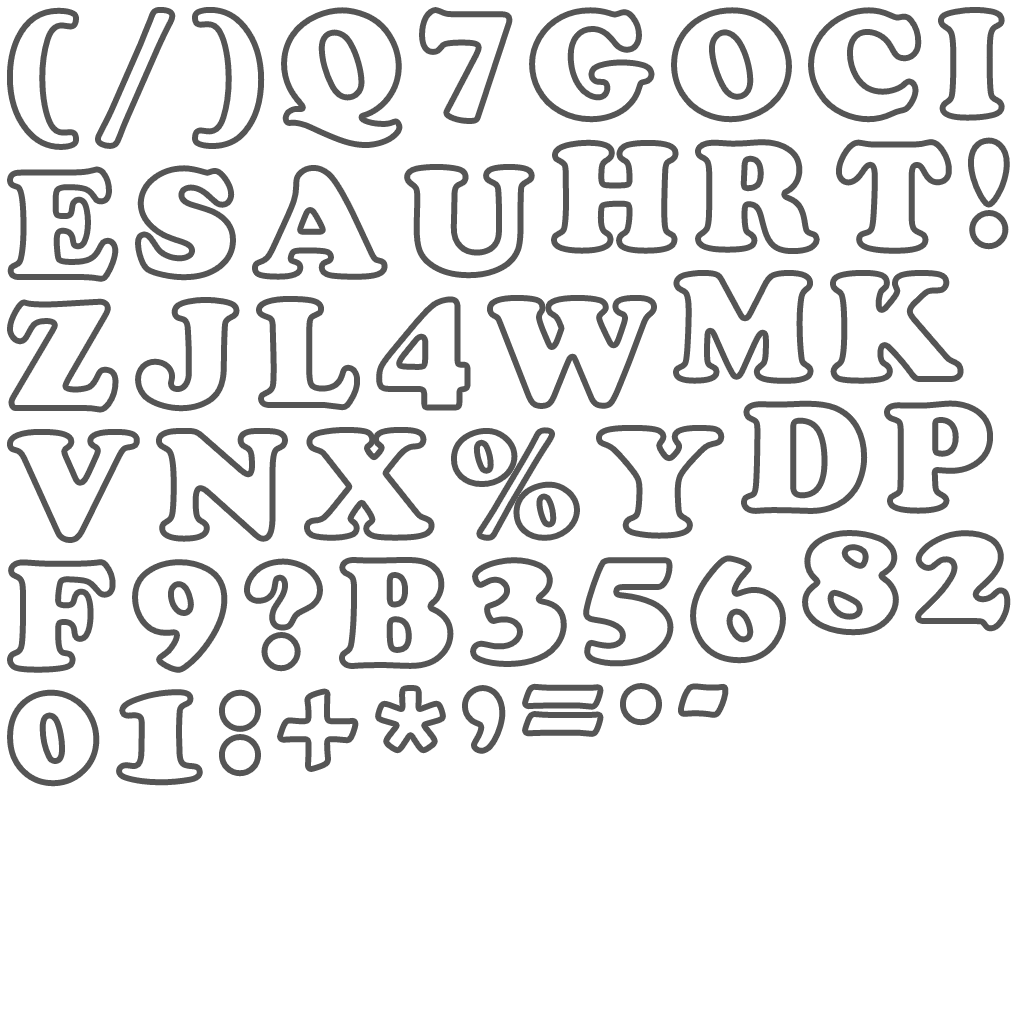
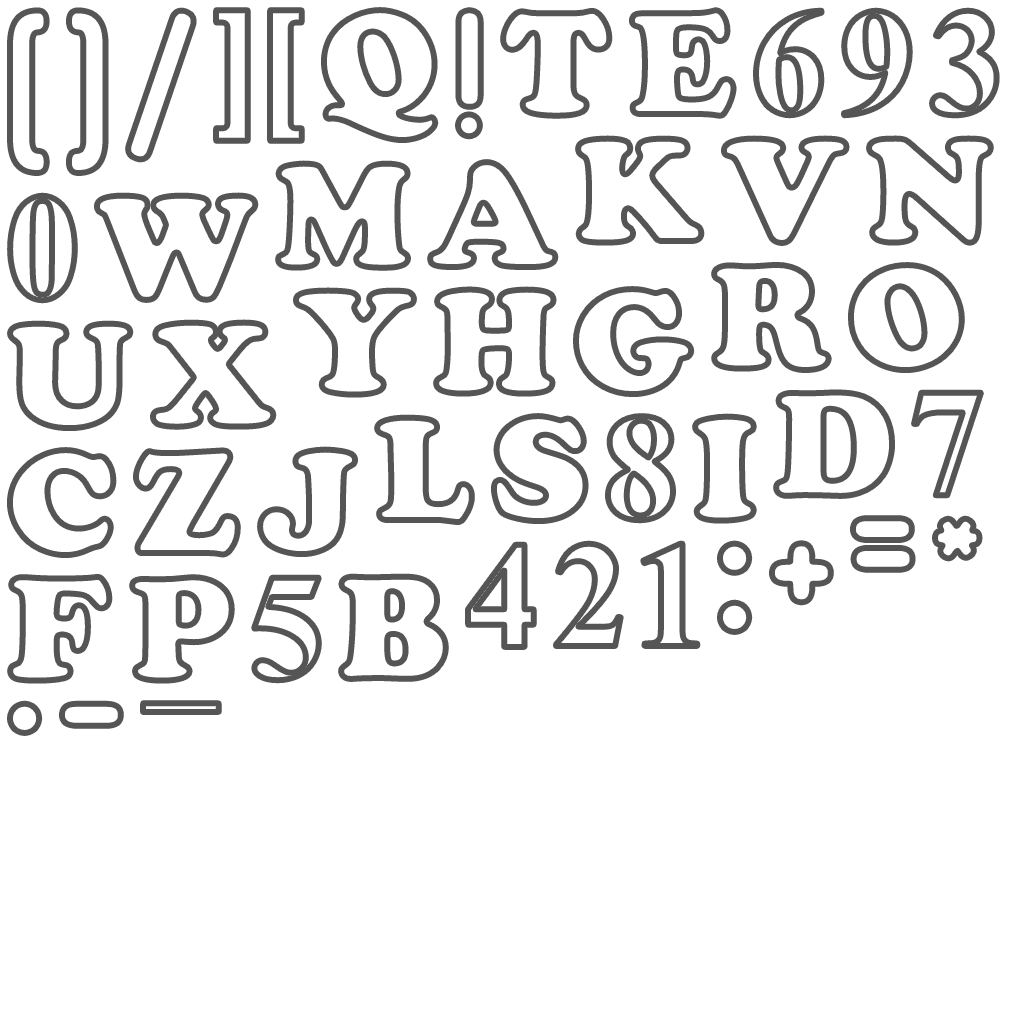
changed the font to a similar one that can export white space.

Changed region(s): [[0.0, 0.0, 1.0, 0.7812]]

diff --git a/src/game/LettersGame.ts b/src/game/LettersGame.ts
@@ -4,12 +4,15 @@ import Letter, { LetterTints, LetterTypes } from "./Letter";
 import LetterPool from "./LetterPool";
 const Keyboard = require("pixi.js-keyboard");
 import { gsap } from "gsap";
+import StartMenu, { START_MENU_EVENTS } from "./screen/StartMenu";
+import PointsMenu, { POINTS_MENU_EVENTS } from "./screen/PointsMenu";
 
 export default class LettersGame {
     private _app: Application;
     private _gameWorld: Container;
-    private _startCont: Container;
-    private _pointsCont: Container;
+
+    private _startMenu: StartMenu;
+    private _pointsMenu: PointsMenu;
 
     private _bgGraphics!: Graphics;
     private _pool: LetterPool;
@@ -41,7 +44,7 @@ export default class LettersGame {
     private _currentWaveNum: number = 0;
 
     /**
-     * Tracks letters that need to be removed from the game.
+     * Tracks letters that need to be removed from the game. Internal use.
      */
     private _toBeRemoved: Letter[] = [];
 
@@ -50,12 +53,9 @@ export default class LettersGame {
     constructor(app: Application) {
         this._app = app;
         this._gameWorld = new Container();
-        this._startCont = new Container();
-        this._pointsCont = new Container();
+        this.initStartMenu();
 
         this._app.stage.addChild(this._gameWorld);
-        this._app.stage.addChild(this._startCont);
-        this._app.stage.addChild(this._pointsCont);
 
         // Game world background.
         this._bgGraphics = new Graphics();
@@ -74,7 +74,8 @@ export default class LettersGame {
     }
 
     dev() {
-        this.startGame();
+        // this.startGame();
+        this.showStartMenu();
     }
 
     startGame() {
@@ -83,8 +84,13 @@ export default class LettersGame {
 
         // Start the letter wave spawner.
         this.spawnLetterWave();
-
         this._gameIsRunning = true;
+
+        this._app.stage.addChild(this._gameWorld);
+        this._gameWorld.visible = true;
+
+        this._app.stage.removeChild(this._startMenu);
+        this._startMenu.visible = false;
     }
 
     stopGame() {
@@ -132,6 +138,7 @@ export default class LettersGame {
         }
         // Check if we need to spawn more letters.
         if (this._currentWaveNum < this._numWaves && this._gameIsRunning) {
+            this._currentWaveNum++;
             gsap.delayedCall(this._spawnEvery, () => {
                 this.spawnLetterWave();
             });
@@ -154,6 +161,8 @@ export default class LettersGame {
         if (new_game_width < new_width) {
             this._gameWorld.x = (new_width - new_game_width) * 0.5;
         }
+
+        this._startMenu.resize(new_width, new_height);
     }
 
     update(delta: number) {
@@ -248,7 +257,20 @@ export default class LettersGame {
 
     //// MENUS.
 
-    showStartMenu() {}
+    initStartMenu() {
+        this._startMenu = new StartMenu();
+        this._startMenu.startBtn.on("pointerdown", () => {
+            this.startGame();
+            this._startMenu.visible = false;
+        });
+    }
+
+    showStartMenu() {
+        this._gameWorld.visible = false;
+        this._startMenu.visible = true;
+        this._app.stage.addChild(this._startMenu);
+        this._app.stage.removeChild(this._gameWorld);
+    }
 
     showPointsMenu() {}
 

diff --git a/src/game/screen/PointsMenu.ts b/src/game/screen/PointsMenu.ts
@@ -1,0 +1,41 @@
+import { BitmapText, Container } from "pixi.js";
+
+export default class PointsMenu extends Container {
+    bt: BitmapText;
+    startBt: BitmapText;
+
+    private _pointsTemplate: string;
+
+    constructor() {
+        super();
+
+        this._pointsTemplate =
+            "BLUE LETTERS: [ph_num_points]\n" +
+            "GOLD LETTERS: [ph_num_gold_points]\n" +
+            "TOTAL SCORE: BLUE LETTERS + (GOLD LETTERS * 2)";
+        ("TOTAL SCORE: [ph_total_points]");
+
+        this.bt = new BitmapText("");
+
+        this.startBt = new BitmapText("( CLICK TO PLAY AGAIN )", {
+            fontName: "ETH_B_gofa",
+            fontSize: 180,
+            align: "center",
+        });
+        this.startBt.interactive = true;
+        this.startBt.buttonMode = true;
+
+        this.startBt.on("pointerdown", this._onStartClick);
+
+        this.addChild(this.bt);
+        this.addChild(this.startBt);
+    }
+
+    private _onStartClick() {
+        this.emit(POINTS_MENU_EVENTS.startPointerDown);
+    }
+}
+
+export const POINTS_MENU_EVENTS = {
+    startPointerDown: "pointsstartpointerdown",
+};

diff --git a/src/game/screen/StartMenu.ts b/src/game/screen/StartMenu.ts
@@ -1,0 +1,30 @@
+import { BitmapText, Container } from "pixi.js";
+import { LOGICAL_GAME_SPACE } from "../LettersGame";
+
+export default class StartMenu extends Container {
+    startBtn: BitmapText;
+
+    constructor() {
+        super();
+
+        this.startBtn = new BitmapText("( START )", { fontName: "ETH_B_gofa", fontSize: 120, align: "center" });
+        this.startBtn.interactive = true;
+        this.startBtn.buttonMode = true;
+
+        this.startBtn.x = LOGICAL_GAME_SPACE.halfWidth;
+        this.startBtn.y = LOGICAL_GAME_SPACE.halfHeight;
+        this.startBtn.anchor.x = this.startBtn.anchor.y = 0.5;
+
+        this.addChild(this.startBtn);
+    }
+
+    resize(new_width: number, new_height: number) {
+        const scale: number = new_height / LOGICAL_GAME_SPACE.height;
+        this.scale.x = this.scale.y = scale;
+
+        const new_game_width = LOGICAL_GAME_SPACE.width * scale;
+        if (new_game_width < new_width) {
+            this.x = (new_width - new_game_width) * 0.5;
+        }
+    }
+}

diff --git a/src/game/Letter.ts b/src/game/Letter.ts
@@ -20,7 +20,7 @@ export default class Letter {
     angularMomentum: number = 0;
 
     constructor(letter: string, container?: Container, tint?: number) {
-        this.bt = new BitmapText(letter, { fontName: "Cooper Black", fontSize: 180 });
+        this.bt = new BitmapText(letter, { fontName: "ETH_B_gofa", fontSize: 180 });
         this.bt.visible = true;
         this.bt.interactive = false;
         this.bt.anchor.x = this.bt.anchor.y = 0.5;
